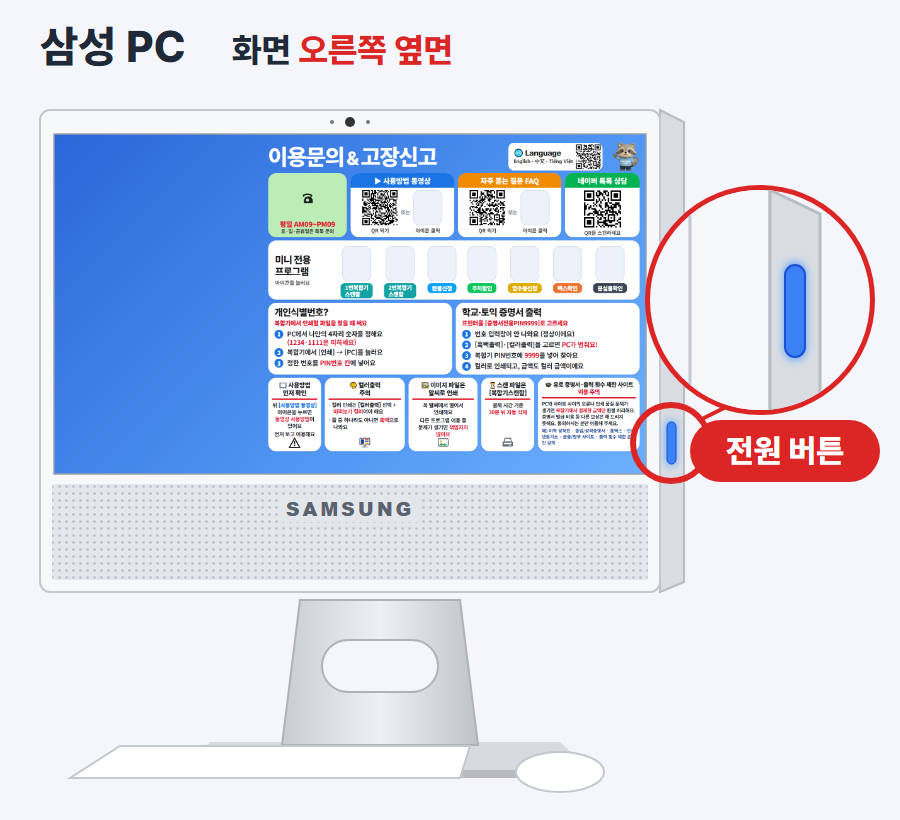
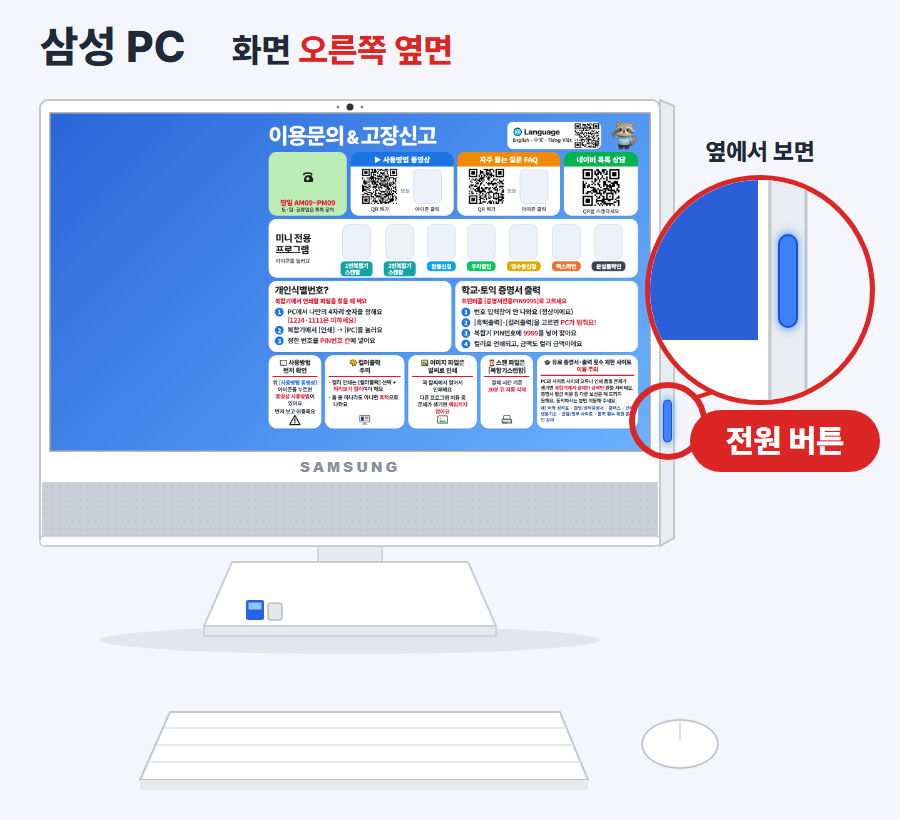
fix: FAQ 76 삼성 PC 그림을 매장 실물(2021년형 DM530ADA 계열, 흰 납작 받침판)대로 다시 그림

Changed region(s): [[0.0311, 0.122, 0.9956, 0.9756], [0.9644, 0.3659, 0.9956, 0.3963], [0.1556, 0.8841, 0.1867, 0.9146]]

diff --git a/images/faq/src/pc-power.html b/images/faq/src/pc-power.html
@@ -19,53 +19,64 @@ svg{display:block}
   <pattern id="dots" width="7" height="7" patternUnits="userSpaceOnUse"><circle cx="3.5" cy="3.5" r="1.3" fill="#b9bec6"/></pattern>
   <linearGradient id="silver" x1="0" x2="1"><stop offset="0" stop-color="#c9cdd3"/><stop offset=".5" stop-color="#eef0f3"/><stop offset="1" stop-color="#bfc4ca"/></linearGradient>
   <filter id="glow" x="-200%" y="-50%" width="500%" height="200%"><feGaussianBlur stdDeviation="4"/></filter>
-  <clipPath id="zoomclip"><circle cx="760" cy="300" r="110"/></clipPath>
+  <clipPath id="zoomclip"><circle cx="760" cy="290" r="110"/></clipPath>
  </defs>
  <rect width="900" height="820" fill="#f4f6fb"/>
  <text x="40" y="62" class="t" font-size="44">삼성 PC</text>
  <text x="232" y="62" class="t" font-size="34" fill="#4b5563">화면 <tspan class="red">오른쪽 옆면</tspan></text>
 
- <!-- 받침대 -->
- <polygon points="210,742 560,742 590,770 180,770" fill="#d7dbe0"/>
- <polygon points="180,770 590,770 590,778 180,778" fill="#b6bbc2"/>
- <path d="M300,600 L460,600 L478,745 L282,745 Z" fill="url(#silver)" stroke="#aeb3ba" stroke-width="2"/>
- <rect x="322" y="640" width="116" height="52" rx="26" fill="#f4f6fb" stroke="#aeb3ba" stroke-width="2"/>
+ <!-- 2021년형(DM530ADA 계열) 실물 사진 기준: 흰 테두리, 화면 아래 SAMSUNG 흰 띠 + 연회색 스피커 천, 흰 납작 받침판 -->
+ <!-- 받침대(흰 판, 화면 뒤에서 내려와 앞으로 깔림) -->
+ <ellipse cx="350" cy="640" rx="250" ry="14" fill="#e3e6eb"/>
+ <rect x="318" y="544" width="64" height="26" fill="#e6e9ee" stroke="#c9ced6" stroke-width="1.5"/>
+ <polygon points="232,562 468,562 496,626 204,626" fill="#ffffff" stroke="#c9ced6" stroke-width="2"/>
+ <polygon points="204,626 496,626 496,636 204,636" fill="#e6e9ee" stroke="#c9ced6" stroke-width="1.5"/>
+ <rect x="246" y="600" width="18" height="20" rx="2" fill="#2563eb"/><rect x="248.5" y="602.5" width="13" height="7" fill="#93c5fd"/>
+ <rect x="268" y="603" width="14" height="17" rx="2" fill="#e5e7eb" stroke="#9ca3af" stroke-width="1"/>
 
- <!-- 모니터 옆면(두께) -->
- <polygon points="660,110 684,122 684,582 660,592" fill="#d9dde2" stroke="#b8bdc4" stroke-width="2"/>
- <!-- 모니터 앞면 -->
- <rect x="40" y="110" width="620" height="482" rx="10" fill="#f7f8fa" stroke="#c3c8cf" stroke-width="2"/>
- <circle cx="350" cy="122" r="5" fill="#333"/><circle cx="332" cy="122" r="2" fill="#777"/><circle cx="368" cy="122" r="2" fill="#777"/>
- <rect x="54" y="134" width="592" height="340" fill="#1d4ed8"/>
- <image x="54" y="134" width="592" height="340" preserveAspectRatio="xMidYMid slice" xlink:href="../../../desktop-wallpaper/프린트샵미니/공통/바탕화면_파란색_24인치_1920x1080.png"/>
- <rect x="54" y="134" width="592" height="340" fill="none" stroke="#9aa1aa" stroke-width="1.5"/>
- <!-- 스피커(점무늬) + SAMSUNG -->
- <rect x="52" y="484" width="596" height="96" rx="4" fill="#e3e6ea"/>
- <rect x="52" y="484" width="596" height="96" rx="4" fill="url(#dots)"/>
- <rect x="282" y="496" width="136" height="26" fill="#e3e6ea"/>
- <text x="350" y="516" text-anchor="middle" font-size="19" font-weight="800" letter-spacing="3" fill="#5b6270" font-family="Arial,sans-serif">SAMSUNG</text>
+ <!-- 모니터 옆면(얇은 두께) -->
+ <polygon points="660,100 674,106 674,538 660,546" fill="#e9ecf0" stroke="#c3c8cf" stroke-width="2"/>
+ <!-- 모니터 앞면(흰색) -->
+ <rect x="40" y="100" width="620" height="446" rx="8" fill="#ffffff" stroke="#c3c8cf" stroke-width="2"/>
+ <circle cx="350" cy="107" r="3.5" fill="#333"/><circle cx="338" cy="107" r="1.5" fill="#888"/><circle cx="362" cy="107" r="1.5" fill="#888"/>
+ <rect x="50" y="113" width="600" height="338" fill="#1d4ed8"/>
+ <image x="50" y="113" width="600" height="338" preserveAspectRatio="xMidYMid slice" xlink:href="../../../desktop-wallpaper/프린트샵미니/공통/바탕화면_파란색_24인치_1920x1080.png"/>
+ <rect x="50" y="113" width="600" height="338" fill="none" stroke="#9aa1aa" stroke-width="1.5"/>
+ <!-- SAMSUNG 글자(흰 띠) -->
+ <text x="350" y="472" text-anchor="middle" font-size="14" font-weight="800" letter-spacing="3" fill="#8a919c" font-family="Arial,sans-serif">SAMSUNG</text>
+ <!-- 스피커(연회색 천) -->
+ <rect x="42" y="482" width="616" height="54" fill="#c9d0da"/>
+ <rect x="42" y="482" width="616" height="54" fill="url(#dots)" opacity=".5"/>
+ <rect x="40" y="536" width="620" height="10" rx="4" fill="#ffffff" stroke="#c3c8cf" stroke-width="1.5"/>
 
- <!-- 전원 버튼(파란 불 들어오는 세로 막대) -->
- <rect x="666" y="420" width="10" height="46" rx="5" fill="#60a5fa" filter="url(#glow)"/>
- <rect x="667" y="422" width="9" height="42" rx="4.5" fill="#3b82f6" stroke="#1d4ed8" stroke-width="1"/>
- <circle cx="671" cy="443" r="38" fill="none" stroke="#dc2626" stroke-width="6"/>
+ <!-- 전원 버튼(오른쪽 옆면 아래쪽, 세로 막대) -->
+ <rect x="663" y="398" width="9" height="46" rx="4.5" fill="#60a5fa" filter="url(#glow)"/>
+ <rect x="663.5" y="400" width="8" height="42" rx="4" fill="#3b82f6" stroke="#1d4ed8" stroke-width="1"/>
+ <circle cx="668" cy="421" r="36" fill="none" stroke="#dc2626" stroke-width="6"/>
 
  <!-- 크게 보기 -->
- <line x1="700" y1="420" x2="730" y2="405" stroke="#dc2626" stroke-width="4"/>
- <circle cx="760" cy="300" r="112" fill="#fff" stroke="#dc2626" stroke-width="6"/>
+ <line x1="694" y1="398" x2="726" y2="388" stroke="#dc2626" stroke-width="4"/>
+ <circle cx="760" cy="290" r="112" fill="#fff" stroke="#dc2626" stroke-width="6"/>
  <g clip-path="url(#zoomclip)">
-  <rect x="640" y="180" width="240" height="240" fill="#f4f6fb"/>
-  <polygon points="690,170 770,190 770,440 690,450" fill="#f7f8fa" stroke="#c3c8cf" stroke-width="3"/>
-  <polygon points="770,190 820,214 820,430 770,440" fill="#d9dde2" stroke="#b8bdc4" stroke-width="3"/>
-  <rect x="784" y="262" width="22" height="98" rx="11" fill="#60a5fa" filter="url(#glow)"/>
-  <rect x="785" y="265" width="20" height="92" rx="10" fill="#3b82f6" stroke="#1d4ed8" stroke-width="2"/>
+  <rect x="640" y="170" width="240" height="240" fill="#f4f6fb"/>
+  <rect x="650" y="170" width="120" height="250" fill="#ffffff" stroke="#c3c8cf" stroke-width="3"/>
+  <rect x="650" y="170" width="108" height="170" fill="#2b5fd9"/>
+  <polygon points="770,170 806,182 806,420 770,420" fill="#e9ecf0" stroke="#c3c8cf" stroke-width="3"/>
+  <rect x="778" y="232" width="20" height="98" rx="10" fill="#60a5fa" filter="url(#glow)"/>
+  <rect x="779" y="235" width="18" height="92" rx="9" fill="#3b82f6" stroke="#1d4ed8" stroke-width="2"/>
  </g>
- <rect x="690" y="420" width="190" height="62" rx="31" fill="#dc2626"/>
- <text x="785" y="462" text-anchor="middle" class="lb" font-size="32">전원 버튼</text>
+ <text x="760" y="160" text-anchor="middle" class="t" font-size="24" fill="#4b5563">옆에서 보면</text>
+ <rect x="690" y="410" width="190" height="62" rx="31" fill="#dc2626"/>
+ <text x="785" y="452" text-anchor="middle" class="lb" font-size="32">전원 버튼</text>
 
- <!-- 키보드·마우스 -->
- <path d="M70,792 L120,760 L470,760 L460,792 Z" fill="#fff" stroke="#c3c8cf" stroke-width="2" transform="translate(0,-14)"/>
- <ellipse cx="560" cy="772" rx="44" ry="20" fill="#fff" stroke="#c3c8cf" stroke-width="2"/>
+ <!-- 키보드·마우스(흰색 세트) -->
+ <polygon points="170,712 560,712 588,780 140,780" fill="#ffffff" stroke="#c3c8cf" stroke-width="2"/>
+ <polygon points="140,780 588,780 588,790 140,790" fill="#e6e9ee"/>
+ <g stroke="#dfe3e8" stroke-width="1.5">
+  <line x1="164" y1="728" x2="567" y2="728"/><line x1="157" y1="745" x2="574" y2="745"/><line x1="150" y1="762" x2="581" y2="762"/>
+ </g>
+ <ellipse cx="680" cy="744" rx="38" ry="24" fill="#ffffff" stroke="#c3c8cf" stroke-width="2"/>
+ <line x1="680" y1="722" x2="680" y2="740" stroke="#dfe3e8" stroke-width="2"/>
 </svg>
 
 <!-- ============ HP 올인원 PC: 뒷면 오른쪽 아래 ============ -->
